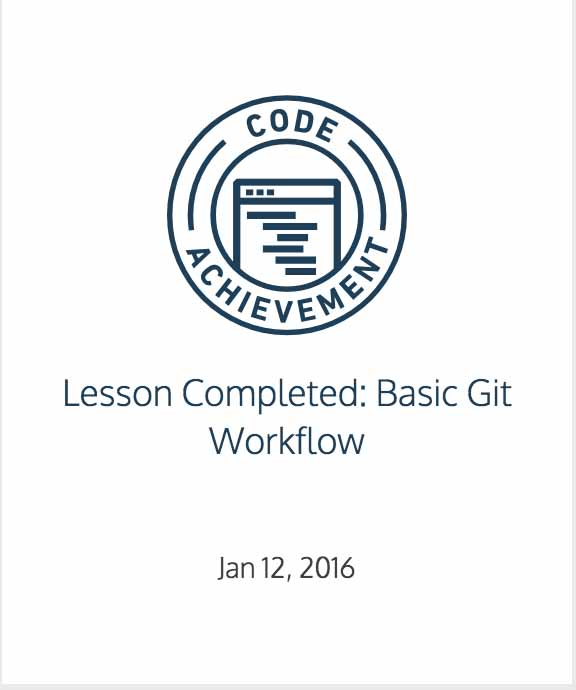
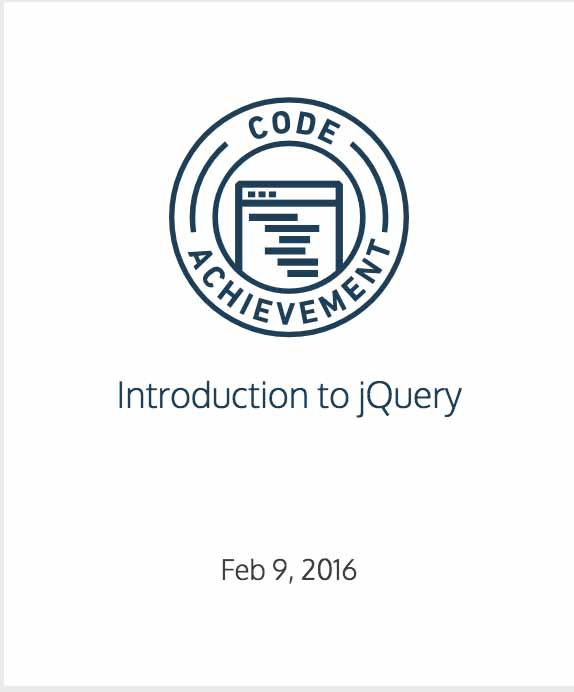
catch up

Changed region(s): [[0.2666, 0.1217, 0.7108, 0.487], [0.0889, 0.5478, 0.8885, 0.6696], [0.385, 0.7913, 0.622, 0.8522]]

diff --git a/otherProjects/codeAcademy/index.html b/otherProjects/codeAcademy/index.html
@@ -3,71 +3,73 @@
 
 <head>
   <meta charset="UTF-8">
-  <title>Bootstrap 3 Responsive Template</title>
+  <title>Code Academy Badges</title>
   <link rel="stylesheet" href="https://maxcdn.bootstrapcdn.com/bootstrap/3.3.6/css/bootstrap.min.css">
   <link rel="stylesheet" href="https://maxcdn.bootstrapcdn.com/bootstrap/3.3.6/css/bootstrap-theme.min.css">
   <script src="https://ajax.googleapis.com/ajax/libs/jquery/1.11.3/jquery.min.js"></script>
   <script src="https://maxcdn.bootstrapcdn.com/bootstrap/3.3.6/js/bootstrap.min.js"></script>
 </head>
 
+<h1>Code Academy Badges</h1>
+
 <body>
 
   <div class="container">
     <div class="row">
-      <div class="col-md-3">
-        <img src="images/badge1.jpg" width="75px"></img>
+      <div class="col-md-4">
+        <img src="images/badge01.jpg" width="300px"></img>
       </div>
 
-      <div class="col-md-3">
-        <img src="images/badge2.jpg" width="75px"></img>
+      <div class="col-md-4">
+        <img src="images/badge02.jpg" width="300px"></img>
       </div>
 
-      <div class="col-md-3">
-        <img src="images/badge3.jpg" width="75px"></img>
+      <div class="col-md-4">
+        <img src="images/badge03.jpg" width="300px"></img>
       </div>
 
-      <div class="col-md-3">
-        <img src="images/badge4.jpg" width="75px"></img>
+      <div class="col-md-4">
+        <img src="images/badge04.jpg" width="300px"></img>
       </div>
 
-      <div class="col-md-3">
-        <img src="images/badge5.jpg" width="75px"></img>
+      <div class="col-md-4">
+        <img src="images/badge05.jpg" width="300px"></img>
       </div>
 
-      <div class="col-md-3">
-        <img src="images/badge6.jpg" width="75px"></img>
+      <div class="col-md-4">
+        <img src="images/badge06.jpg" width="300px"></img>
       </div>
 
-      <div class="col-md-3">
-        <img src="images/badge7.jpg" width="75px"></img>
+      <div class="col-md-4">
+        <img src="images/badge07.jpg" width="300px"></img>
       </div>
 
-      <div class="col-md-3">
-        <img src="images/badge8.jpg" width="75px"></img>
+      <div class="col-md-4">
+        <img src="images/badge08.jpg" width="300px"></img>
       </div>
 
-      <div class="col-md-3">
-        <img src="images/badge9.jpg" width="75px"></img>
+      <div class="col-md-4">
+        <img src="images/badge09.jpg" width="300px"></img>
       </div>
 
-      <div class="col-md-3">
-        <img src="images/badge10.jpg" width="75px"></img>
+      <div class="col-md-4">
+        <img src="images/badge10.jpg" width="300px"></img>
       </div>
 
-      <div class="col-md-3">
-        <img src="images/badge11.jpg" width="75px"></img>
+      <div class="col-md-4">
+        <img src="images/badge11.jpg" width="300px"></img>
       </div>
 
-      <div class="col-md-3">
-        <img src="images/badge12.jpg" width="75px"></img>
+      <div class="col-md-4">
+        <img src="images/badge12.jpg" width="300px"></img>
       </div>
 
-      <div class="col-md-3">
-        <img src="images/badge13.jpg" width="75px"></img>
+      <div class="col-md-4">
+        <img src="images/badge13.jpg" width="300px"></img>
       </div>
 
-      <div class="col-md-3">
-        <img src="images/badge14.jpg" width="75px"></img>
+      <div class="col-md-4">
+        <img src="images/badge14.jpg" width="300px"></img>
       </div>
 
     </div>

diff --git a/otherProjects/takeAnOrder/js/takeAnOrder.js b/otherProjects/takeAnOrder/js/takeAnOrder.js
@@ -1,0 +1,66 @@
+$(document).ready(function() {
+
+  /*
+  - click
+  - blur
+  - focus
+  - change
+  - mouseenter & mouseleave
+
+  $("#").on("", function(){
+  });
+  */
+  $("#mySingleLineText").on("focus", function() {
+      $("#log").append("<br>colour yello");
+      $(this).css("background-color", "yellow");
+    })
+    .on("blur", function() {
+      $("#log").append("<br>colour white");
+      $(this).css("background-color", "white");
+    });
+
+  $("#mySelect").on("change", function() {
+
+    var val = $(this).val();
+    $("#log").append("<br>selelct change");
+    $("#mySelectMessage").html(val + " is a nice selection!");
+  });
+
+  $("#myButton").on("mouseenter", function() {
+      $("#log").append("<br>Buttom mouseenter");
+      $(this).text("Order Now")
+    })
+    .on("mouseleave", function() {
+      $("#log").append("<br>button mouseleave");
+      $(this).text("Click Me")
+    });
+
+  //user click the button
+  //$("#log").append("<br>added some text");
+  $("#myButton").on("click", function() {
+
+    var myInput = $("#mySingleLineText").val();
+    var myTextarea = $("myTextArea").val();
+    var mySelect = $("myTSelect").val();
+    var myRadio = $("[name='gender']:checked").val();
+
+    var myCheckValues = [];
+    //each is a jquery Loop for objects/arreys
+    //each thing that is seleced, do the funtion
+    //"this" is the element we are currently looking at
+
+    $("[name='vehicle']:checked").each(function() {
+      myCheckValues.pushes($(this).val());
+    });
+
+    $("#log").append("<br>User clicked the button");
+
+    $("#log").append("<br>Value of input is:" + myInput);
+    $("#log").append("<br>Value of textarea is:" + myTextArea);
+    $("#log").append("<br>Value of select is:" + mySelect);
+    $("#log").append("<br>Value of radio button is:" + myRadio);
+    $("#log").append("<br>Value of checks is:" + myCheckValues.join());
+
+  })
+
+});

diff --git a/otherProjects/takeAnOrder/takeAnOrderRegular.html b/otherProjects/takeAnOrder/takeAnOrderRegular.html
@@ -1,0 +1,55 @@
+<!DOCTYPE html>
+<html lang="en">
+
+<head>
+  <meta charset="UTF-8">
+  <title>Take an Order Regular HTML</title>
+  <script src="https://ajax.googleapis.com/ajax/libs/jquery/1.11.3/jquery.min.js"></script>
+</head>
+
+<body>
+  <div id="wrapper">
+    <input id="mySingleLineText" type="text" value="Type here">
+    <br>
+    <!--end of input -->
+    <br>
+    <textarea id="myTextArea" rows="10" cols="50">Write something here</textarea>
+    <br>
+    <!--end of textarea -->
+    <br>
+    <select id="mySelect">
+      <option value="value1">Value 1</option>
+      <option value="value2" selected>Value 2</option>
+      <option value="value3">Value 3</option>
+    </select>
+    <br>
+
+    <div id="mySelectMessage"></div>
+    <!--end of select -->
+    <br>
+    <input type="radio" name="gender" value="male" checked> Male
+    <br>
+    <input type="radio" name="gender" value="female"> Female
+    <br>
+    <input type="radio" name="gender" value="other"> Other
+    <br>
+    <!--end of radio -->
+    <br>
+    <input type="checkbox" name="vehicle" value="Bike" checked>I have a bike
+    <br>
+    <input type="checkbox" name="vehicle" value="Car">I have a car
+    <br>
+    <!--end of checkbox -->
+    <br>
+    <button id="myButton" type="button">Click Me!</button>
+    <br>
+    <!--end of button -->
+    <br>
+    <div id="log">LOG</div>
+  </div>
+
+
+  <script src="js/takeAnOrder.js"></script>
+</body>
+
+</html>

diff --git a/otherProjects/jsQuestions/week3/question2.html b/otherProjects/jsQuestions/week3/question2.html
@@ -1,0 +1,38 @@
+<!DOCTYPE html>
+<html lang="en">
+
+<head>
+  <meta charset="UTF-8">
+  <title>Bootstrap 3 Responsive Template</title>
+  <link rel="stylesheet" href="https://maxcdn.bootstrapcdn.com/bootstrap/3.3.6/css/bootstrap.min.css">
+  <link rel="stylesheet" href="https://maxcdn.bootstrapcdn.com/bootstrap/3.3.6/css/bootstrap-theme.min.css">
+  <script src="https://ajax.googleapis.com/ajax/libs/jquery/1.11.3/jquery.min.js"></script>
+  <script src="https://maxcdn.bootstrapcdn.com/bootstrap/3.3.6/js/bootstrap.min.js"></script>
+</head>
+
+<body>
+
+  <div class="container">
+    <div class="row">
+    </div>
+  </div>
+  <script>
+  /*
+      2. Using document.write(), write code that displays the results of the 12 times table.
+      Its output should be the results of the calculations. (Note: There several levels of efficiency in solving this).
+      12 * 1 = 12
+      12 * 2 = 24
+      12 * 3 = 36
+      ...
+      12 * 11 = 132
+      12 * 12 = 144
+      */
+
+      var i;
+      for(i=1; i<=12; i++){
+        document.write("12 * " + i + " = " + (12 * i) + "<br>");
+      }
+  </script>
+</body>
+
+</html>

diff --git a/otherProjects/jsQuestions/week3/question4.html b/otherProjects/jsQuestions/week3/question4.html
@@ -1,0 +1,36 @@
+<!DOCTYPE html>
+<html lang="en">
+
+<head>
+  <meta charset="UTF-8">
+  <title>Bootstrap 3 Responsive Template</title>
+  <link rel="stylesheet" href="https://maxcdn.bootstrapcdn.com/bootstrap/3.3.6/css/bootstrap.min.css">
+  <link rel="stylesheet" href="https://maxcdn.bootstrapcdn.com/bootstrap/3.3.6/css/bootstrap-theme.min.css">
+  <script src="https://ajax.googleapis.com/ajax/libs/jquery/1.11.3/jquery.min.js"></script>
+  <script src="https://maxcdn.bootstrapcdn.com/bootstrap/3.3.6/js/bootstrap.min.js"></script>
+</head>
+
+<body>
+
+  <div class="container">
+    <div class="row">
+    </div>
+  </div>
+  <script>
+  function muliptling(factor, numberOfTimes) {
+    var i;
+    for (i = 1; i <= numberOfTimes; i++) {
+      document.write(factor + " * " + i + " = " + (factor * i) + "<br>");
+    }
+  }
+  //alert(displayNumber);
+  var displayNumber = 0;
+  while (displayNumber != -1) {
+    displayNumber = prompt("enter a number to be times");
+    muliptling(displayNumber, 12);
+
+  }
+  </script>
+</body>
+
+</html>

diff --git a/otherProjects/jsQuestions/week3/question1.html b/otherProjects/jsQuestions/week3/question1.html
@@ -1,0 +1,32 @@
+<!DOCTYPE html>
+<html lang="en">
+
+<head>
+  <meta charset="UTF-8">
+  <title>Bootstrap 3 Responsive Template</title>
+  <link rel="stylesheet" href="https://maxcdn.bootstrapcdn.com/bootstrap/3.3.6/css/bootstrap.min.css">
+  <link rel="stylesheet" href="https://maxcdn.bootstrapcdn.com/bootstrap/3.3.6/css/bootstrap-theme.min.css">
+  <script src="https://ajax.googleapis.com/ajax/libs/jquery/1.11.3/jquery.min.js"></script>
+  <script src="https://maxcdn.bootstrapcdn.com/bootstrap/3.3.6/js/bootstrap.min.js"></script>
+</head>
+
+<body>
+
+  <div class="container">
+    <div class="row">
+      HI
+    </div>
+  </div>
+  <script>
+    var userAge = prompt("Please enter your age");
+    if (userAge == 0) {
+      alert("So you're a baby!");
+    } else if (userAge < 0 || userAge > 200) {
+      alert("I think you may be lying about your age");
+    } else {
+      alert("That's a good age");
+    }
+  </script>
+</body>
+
+</html>

diff --git a/otherProjects/jsQuestions/week3/question3.html b/otherProjects/jsQuestions/week3/question3.html
@@ -1,0 +1,30 @@
+<!DOCTYPE html>
+<html lang="en">
+
+<head>
+  <meta charset="UTF-8">
+  <title>Bootstrap 3 Responsive Template</title>
+  <link rel="stylesheet" href="https://maxcdn.bootstrapcdn.com/bootstrap/3.3.6/css/bootstrap.min.css">
+  <link rel="stylesheet" href="https://maxcdn.bootstrapcdn.com/bootstrap/3.3.6/css/bootstrap-theme.min.css">
+  <script src="https://ajax.googleapis.com/ajax/libs/jquery/1.11.3/jquery.min.js"></script>
+  <script src="https://maxcdn.bootstrapcdn.com/bootstrap/3.3.6/js/bootstrap.min.js"></script>
+</head>
+
+<body>
+
+  <div class="container">
+    <div class="row">
+    </div>
+  </div>
+  <script>
+  function muliptling(factor, numberOfTimes) {
+    var i;
+    for (i = 1; i <= numberOfTimes; i++) {
+      document.write(factor + " * " + i + " = " + (factor * i) + "<br>");
+    }
+  }
+  muliptling(6, 30);
+  </script>
+</body>
+
+</html>

diff --git a/otherProjects/takeAnOrder/takeAnOrderBootstrap.html b/otherProjects/takeAnOrder/takeAnOrderBootstrap.html
@@ -1,0 +1,22 @@
+<!DOCTYPE html>
+<html lang="en">
+
+<head>
+  <meta charset="UTF-8">
+  <title>Bootstrap 3 Responsive Template</title>
+  <link rel="stylesheet" href="https://maxcdn.bootstrapcdn.com/bootstrap/3.3.6/css/bootstrap.min.css">
+  <link rel="stylesheet" href="https://maxcdn.bootstrapcdn.com/bootstrap/3.3.6/css/bootstrap-theme.min.css">
+  <script src="https://ajax.googleapis.com/ajax/libs/jquery/1.11.3/jquery.min.js"></script>
+  <script src="https://maxcdn.bootstrapcdn.com/bootstrap/3.3.6/js/bootstrap.min.js"></script>
+</head>
+
+<body>
+
+  <div class="container">
+    <div class="row">
+  HI
+    </div>
+  </div>
+</body>
+
+</html>

diff --git a/otherProjects/twitterBootstrap/index.html b/otherProjects/twitterBootstrap/index.html
@@ -28,7 +28,7 @@
       <div id="navbarCollapse" class="collapse navbar-collapse">
         <ul class="nav navbar-nav">
           <li class="active"><a href="http://zellissesdeguzman.github.io/index.html">Home</a></li>
-          <li><a href="http://zellissesdeguzman.github.io/otherProjects/codeAcademy/index.html">jsQuestions</a></li>
+          <li><a href="http://zellissesdeguzman.github.io/otherProjects/codeAcademy/index.html">Badges</a></li>
           <li class="dropdown">
             <a data-toggle="dropdown" class="dropdown-toggle" href="#">Messages <b class="caret"></b></a>
             <ul role="menu" class="dropdown-menu">
